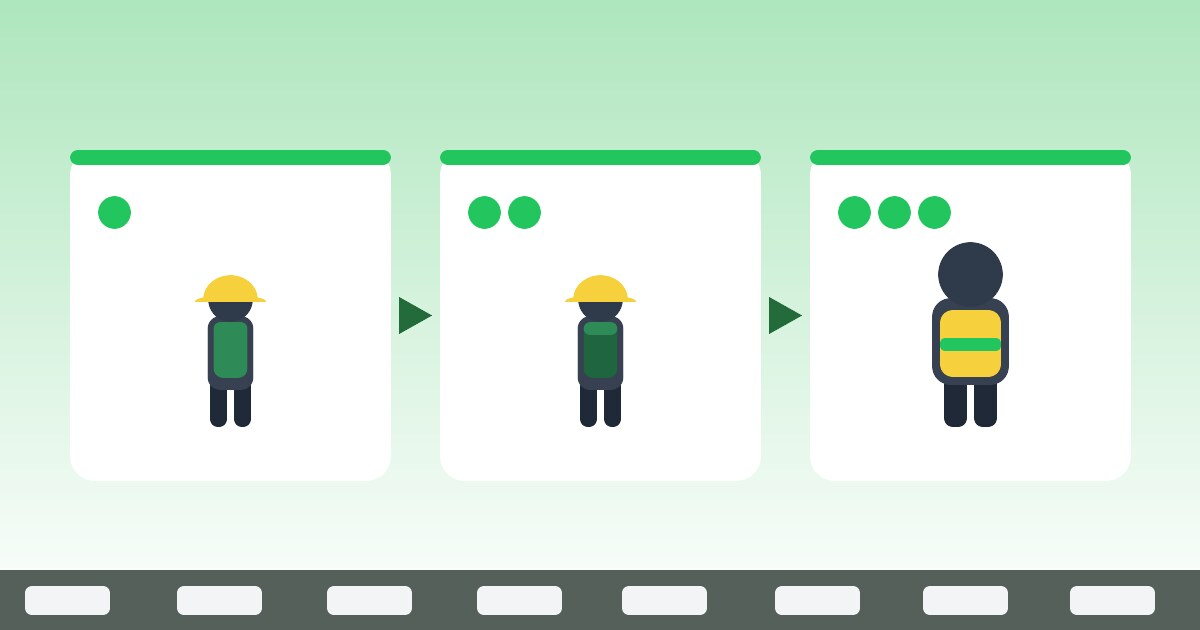
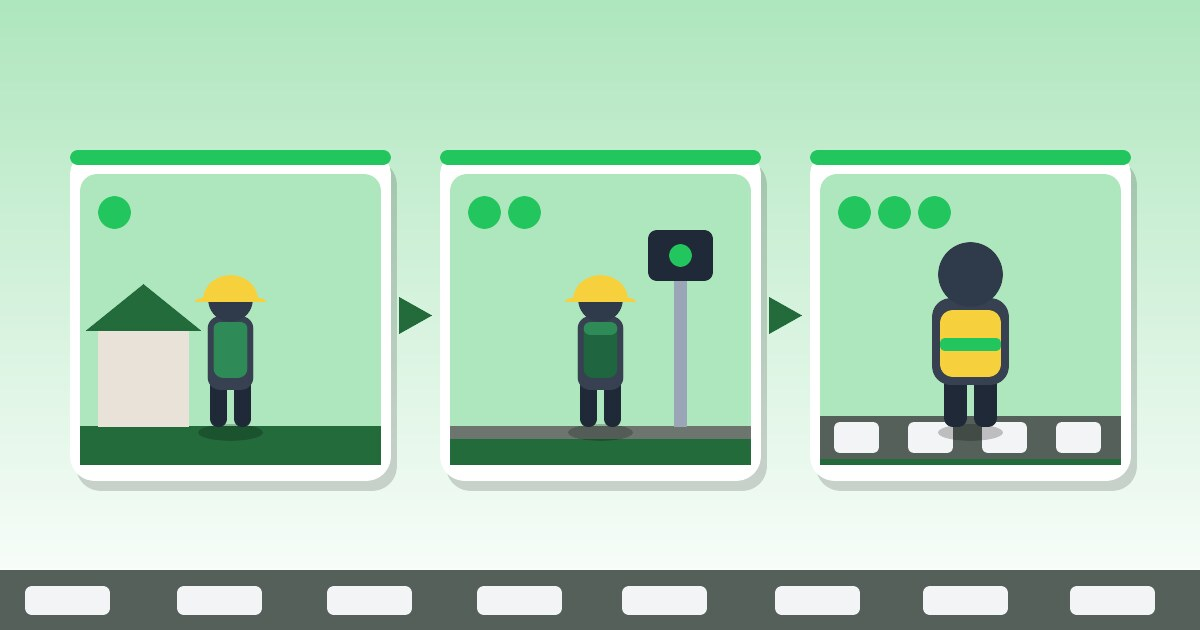
feat(school-route-news): フォールバック画像を図面から情景イラストに作り直す
平面的な図形の並びで「SVGの図」に見えていたため、1枚の絵として
成立する描画に変える。

- 空に光源（radial-gradient の screen 合成）と雲を入れ、夕景の抜けを作る
- 遠景に住宅街のスカイラインと街路樹を描き、窓の灯りで登下校の時間帯を示す
- 人物に接地影を付け、画面周辺にビネットをかけて奥行きを出す
- 街路樹は主役の児童に重ならない範囲にのみ植える
- 記事内の図版は、手順ごとに場面が変わるようにする
  （①家の前 → ②信号のある歩道のきわ → ③横断歩道の上）。
  パネルに影と地面を入れ、サムネイルと同じ絵の系統に揃える

要件は維持している: 事故現場・不審者本人・負傷・顔・文字・数字は描かず、
黄色い帽子・ランドセル・横断歩道・見守りの要素を持ち、slug ごとに構図が
変わるため使い回しにならない。

これはAI生成ではなく ImageMagick の作図である。GEMINI_API_KEY を設定すれば
本生成の画像に自動で差し替わる点は変わらない。

npx tsc --noEmit は exit 0、school-route-news 関連4ファイル28テストは緑。

Claude-Session: https://claude.ai/code/session_01N7ufJMLLt1sf1gnUWi5KuT

diff --git a/scripts/school-route-placeholder-art.ts b/scripts/school-route-placeholder-art.ts
@@ -45,23 +45,23 @@ interface Palette {
 /** accident=赤系警告 / suspicious=オレンジ警戒 / infrastructure=青の安心 / community=緑の温かみ */
 const PALETTES: Record<string, Palette> = {
   accident: {
-    skyTop: "#6B1620", skyBottom: "#E7A79B", walk: "#8E4038", road: "#55606E",
+    skyTop: "#8E2230", skyBottom: "#E7A79B", walk: "#8E4038", road: "#55606E",
     roadEdge: "#6B7684", accent: "#EF4444", pack: "#B4472F", packAlt: "#8C3421",
   },
   suspicious: {
-    skyTop: "#7C3A09", skyBottom: "#F6C58A", walk: "#9A5A20", road: "#5C5A58",
+    skyTop: "#95490D", skyBottom: "#F6C58A", walk: "#9A5A20", road: "#5C5A58",
     roadEdge: "#726F6C", accent: "#F97316", pack: "#C2641F", packAlt: "#8F4612",
   },
   infrastructure: {
-    skyTop: "#17306E", skyBottom: "#8FB9EE", walk: "#2A4D8F", road: "#55606E",
+    skyTop: "#1D3C86", skyBottom: "#8FB9EE", walk: "#2A4D8F", road: "#55606E",
     roadEdge: "#6B7684", accent: "#3B82F6", pack: "#2F6FB4", packAlt: "#1F4F85",
   },
   policy: {
-    skyTop: "#3B1D73", skyBottom: "#C3ACEF", walk: "#4B2C8C", road: "#585462",
+    skyTop: "#4C2A8C", skyBottom: "#C3ACEF", walk: "#4B2C8C", road: "#585462",
     roadEdge: "#6E6A78", accent: "#8B5CF6", pack: "#6D4AAE", packAlt: "#4E3280",
   },
   community: {
-    skyTop: "#14532D", skyBottom: "#AEE6BD", walk: "#246B3C", road: "#56605A",
+    skyTop: "#1B6B3A", skyBottom: "#AEE6BD", walk: "#246B3C", road: "#56605A",
     roadEdge: "#6C766F", accent: "#22C55E", pack: "#2E8B57", packAlt: "#1F6540",
   },
 }
@@ -185,18 +185,96 @@ function motif(category: string, cx: number, groundY: number, palette: Palette, 
   }
 }
 
+/** 空の光（夕景・朝景の抜け）。平面的な図に見せないための一番効く要素 */
+function sunGlow(rnd: () => number): string[] {
+  const rollX = Math.round((rnd() - 0.5) * 420)
+  const rollY = -Math.round(rnd() * 90)
+  return [
+    "(", "-size", `${WIDTH}x${HEIGHT}`, "radial-gradient:rgba(255,226,180,0.80)-rgba(255,226,180,0)",
+    "-roll", `${rollX >= 0 ? "+" : ""}${rollX}${rollY >= 0 ? "+" : ""}${rollY}`, ")",
+    "-compose", "screen", "-composite", "-compose", "over",
+  ]
+}
+
+/** 遠景の雲 */
+function clouds(rnd: () => number): string[] {
+  const args: string[] = [...fill("rgba(255,255,255,0.16)")]
+  const count = 2 + Math.round(rnd() * 2)
+  for (let i = 0; i < count; i++) {
+    const cx = Math.round(rnd() * WIDTH)
+    const cy = Math.round(70 + rnd() * 130)
+    const rx = Math.round(80 + rnd() * 80)
+    args.push(...draw(`ellipse ${cx},${cy} ${rx},${Math.round(rx * 0.2)} 0,360`))
+    args.push(...draw(`ellipse ${cx + Math.round(rx * 0.5)},${cy + 16} ${Math.round(rx * 0.7)},${Math.round(rx * 0.15)} 0,360`))
+  }
+  return args
+}
+
+/** 遠景の住宅街と街路樹（通学路の文脈を一目で出す） */
+function skyline(horizon: number, palette: Palette, rnd: () => number): string[] {
+  const args: string[] = []
+  const far = "#3B2E57"
+  const roof = "#2F2448"
+  let x = -40
+  while (x < WIDTH) {
+    const w = 90 + Math.round(rnd() * 90)
+    const h = 70 + Math.round(rnd() * 90)
+    const top = horizon - h
+    args.push(...fill(far), ...draw(`rectangle ${x},${top} ${x + w},${horizon}`))
+    if (rnd() > 0.45) {
+      args.push(...fill(roof), ...draw(`polygon ${x},${top} ${x + w / 2},${top - 38} ${x + w},${top}`))
+    }
+    // 灯りの点いた窓（夕方の通学時間帯の気配）
+    args.push(...fill("rgba(255,228,176,0.45)"))
+    for (let wy = top + 22; wy < horizon - 30; wy += 46) {
+      for (let wx = x + 18; wx < x + w - 24; wx += 44) {
+        if (rnd() > 0.45) args.push(...draw(`rectangle ${wx},${wy} ${wx + 18},${wy + 22}`))
+      }
+    }
+    x += w + 10 + Math.round(rnd() * 26)
+  }
+  // 街路樹
+  const trees = 2 + Math.round(rnd() * 2)
+  for (let i = 0; i < trees; i++) {
+    // 主役（児童）の立ち位置に重ならない範囲に植える
+    const tx = rnd() > 0.5
+      ? Math.round(470 + rnd() * (WIDTH - 540))
+      : Math.round(40 + rnd() * 90)
+    const r = 34 + Math.round(rnd() * 18)
+    args.push(...fill("#3B4A2E"), ...draw(`rectangle ${tx - 7},${horizon - r} ${tx + 7},${horizon}`))
+    args.push(...fill("#2F5E42"), ...draw(`circle ${tx},${horizon - r - 20} ${tx},${horizon - r - 20 - r}`))
+    args.push(...fill("#36694A"), ...draw(`circle ${tx + Math.round(r * 0.6)},${horizon - r - 4} ${tx + Math.round(r * 0.6)},${horizon - r - 4 - Math.round(r * 0.72)}`))
+  }
+  void palette
+  return args
+}
+
+/** 足元の影（接地させると立体に見える） */
+function groundShadow(x: number, y: number, rx: number): string[] {
+  return [...fill("rgba(0,0,0,0.22)"), ...draw(`ellipse ${x},${y} ${rx},${Math.round(rx * 0.26)} 0,360`)]
+}
+
+function vignette(): string[] {
+  return ["(", "-size", `${WIDTH}x${HEIGHT}`, "radial-gradient:rgba(0,0,0,0)-rgba(0,0,0,0.26)", ")", "-compose", "over", "-composite"]
+}
+
 function thumbnailArgs(category: string, seed: string): string[] {
   const palette = PALETTES[category] ?? PALETTES.policy
   const rnd = makeRandom(seed)
-  const horizon = 364 + Math.round(rnd() * 24)
-  const walkBottom = horizon + 52
-  const groundY = walkBottom - 34
+  const horizon = 396 + Math.round(rnd() * 22)
+  const walkBottom = horizon + 44
+  const groundY = horizon + 30
   const args: string[] = ["-size", `${WIDTH}x${HEIGHT}`, `gradient:${palette.skyTop}-${palette.skyBottom}`]
+
+  args.push(...sunGlow(rnd))
+  args.push(...clouds(rnd))
+  args.push(...skyline(horizon, palette, rnd))
 
   // 歩道と車道
   args.push(...fill(palette.walk), ...draw(`rectangle 0,${horizon} ${WIDTH},${walkBottom}`))
+  args.push(...fill("rgba(255,255,255,0.10)"), ...draw(`rectangle 0,${horizon} ${WIDTH},${horizon + 7}`))
   args.push(...fill(palette.road), ...draw(`rectangle 0,${walkBottom} ${WIDTH},${HEIGHT}`))
-  args.push(...fill(palette.roadEdge), ...draw(`rectangle 0,${walkBottom} ${WIDTH},${walkBottom + 16}`))
+  args.push(...fill(palette.roadEdge), ...draw(`rectangle 0,${walkBottom} ${WIDTH},${walkBottom + 14}`))
 
   // 横断歩道（手前ほど広がる）
   const stripes = 6
@@ -206,18 +284,27 @@ function thumbnailArgs(category: string, seed: string): string[] {
   for (let i = 0; i < stripes; i++) {
     const x = Math.round(i * gap + 50)
     const spread = Math.round((i - stripes / 2) * skew)
-    args.push(...draw(`polygon ${x},${walkBottom + 48} ${x + 90},${walkBottom + 48} ${x + 90 + spread},${HEIGHT} ${x + spread},${HEIGHT}`))
+    args.push(...draw(`polygon ${x},${walkBottom + 46} ${x + 90},${walkBottom + 46} ${x + 90 + spread},${HEIGHT} ${x + spread},${HEIGHT}`))
   }
+  // 路面の濡れた反射（手前を少し明るく）
+  args.push(...fill("rgba(255,255,255,0.05)"), ...draw(`rectangle 0,${HEIGHT - 70} ${WIDTH},${HEIGHT}`))
 
   // 児童（1〜2人）と、community のみ見守りの大人
   const baseX = 210 + Math.round(rnd() * 90)
+  args.push(...groundShadow(baseX, groundY + 4, 44))
   args.push(...child(baseX, groundY, 1, palette.pack, palette.packAlt))
   if (rnd() > 0.35) {
-    args.push(...child(baseX + 112 + Math.round(rnd() * 26), groundY + 6, 0.8, palette.packAlt, palette.pack))
+    const x2 = baseX + 112 + Math.round(rnd() * 26)
+    args.push(...groundShadow(x2, groundY + 10, 36))
+    args.push(...child(x2, groundY + 6, 0.8, palette.packAlt, palette.pack))
   }
-  if (category === "community") args.push(...guardian(baseX + 240, groundY, palette.accent))
+  if (category === "community") {
+    args.push(...groundShadow(baseX + 240, groundY + 4, 48))
+    args.push(...guardian(baseX + 240, groundY, palette.accent))
+  }
 
   args.push(...motif(category, 900 + Math.round(rnd() * 90), groundY, palette, rnd))
+  args.push(...vignette())
   return args
 }
 
@@ -234,16 +321,41 @@ function figureArgs(category: string, seed: string): string[] {
 
   for (let i = 0; i < 3; i++) {
     const x = Math.round(startX + i * (panelW + gapX))
+    const cx = Math.round(x + panelW / 2)
+    const groundY = panelY + panelH - 54
+
+    // 影 → パネル → パネル内の空
+    args.push(...fill("rgba(0,0,0,0.16)"), ...draw(`roundrectangle ${x + 6},${panelY + 10} ${x + panelW + 6},${panelY + panelH + 10} 24,24`))
     args.push(...fill("#FFFFFF"), ...draw(`roundrectangle ${x},${panelY} ${x + panelW},${panelY + panelH} 24,24`))
+    args.push(...fill(`${palette.skyBottom}`), ...draw(`roundrectangle ${x + 10},${panelY + 24} ${x + panelW - 10},${panelY + panelH - 16} 16,16`))
+    args.push(...fill(palette.walk), ...draw(`rectangle ${x + 10},${groundY} ${x + panelW - 10},${panelY + panelH - 16}`))
     args.push(...fill(palette.accent), ...draw(`roundrectangle ${x},${panelY} ${x + panelW},${panelY + 14} 7,7`))
 
-    const cx = x + panelW / 2
-    const groundY = panelY + panelH - 54
-    if (i === 2 && category === "community") {
-      args.push(...guardian(Math.round(cx), groundY, palette.accent))
+    // 手順ごとに場面を変える（①家の前 → ②歩道のきわ → ③横断歩道の上）
+    if (i === 0) {
+      args.push(...fill("#E8E2D8"), ...draw(`rectangle ${x + 28},${groundY - 96} ${x + 118},${groundY}`))
+      args.push(...fill(palette.walk), ...draw(`polygon ${x + 16},${groundY - 96} ${x + 130},${groundY - 96} ${x + 73},${groundY - 142}`))
+    } else if (i === 1) {
+      args.push(...fill(palette.roadEdge), ...draw(`rectangle ${x + 10},${groundY} ${x + panelW - 10},${groundY + 12}`))
+      args.push(...fill("#9AA6B8"), ...draw(`rectangle ${x + panelW - 86},${groundY - 150} ${x + panelW - 74},${groundY}`))
+      args.push(...fill("#1F2937"), ...draw(`roundrectangle ${x + panelW - 112},${groundY - 196} ${x + panelW - 48},${groundY - 146} 8,8`))
+      args.push(...fill(palette.accent), ...draw(`circle ${x + panelW - 80},${groundY - 171} ${x + panelW - 80},${groundY - 160}`))
     } else {
-      args.push(...child(Math.round(cx), groundY, 0.78, i === 1 ? palette.packAlt : palette.pack, palette.pack))
+      args.push(...fill(palette.road), ...draw(`rectangle ${x + 10},${groundY - 10} ${x + panelW - 10},${groundY + 32}`))
+      args.push(...fill(STRIPE))
+      for (let s = 0; s < 4; s++) {
+        const sx = x + 24 + s * 74
+        args.push(...draw(`roundrectangle ${sx},${groundY - 4} ${sx + 44},${groundY + 26} 5,5`))
+      }
     }
+
+    args.push(...groundShadow(cx, groundY + 6, 32))
+    if (i === 2 && category === "community") {
+      args.push(...guardian(cx, groundY, palette.accent))
+    } else {
+      args.push(...child(cx, groundY, 0.78, i === 1 ? palette.packAlt : palette.pack, palette.pack))
+    }
+
     // 手順の番号は数字を書かずドットの数で示す（画像内に文字・数字は入れない）
     for (let d = 0; d <= i; d++) {
       args.push(...fill(palette.accent), ...draw(`circle ${x + 44 + d * 40},${panelY + 62} ${x + 44 + d * 40},${panelY + 46}`))
